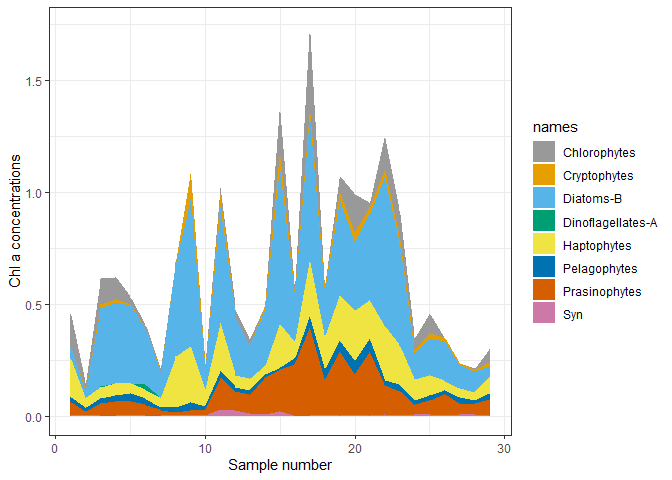
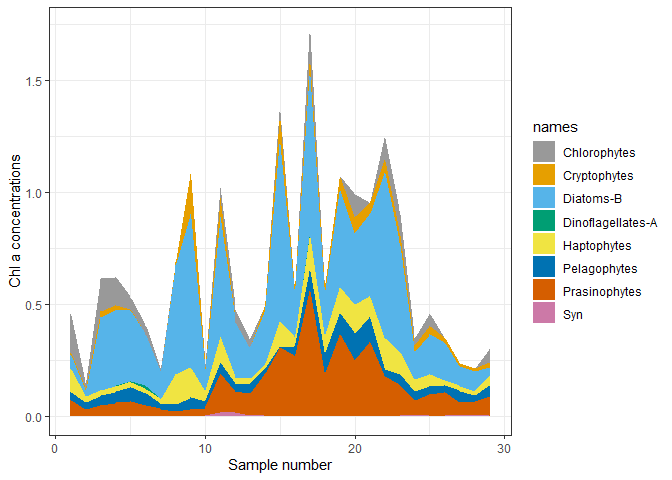
Set random number seed

diff --git a/README.md b/README.md
@@ -28,147 +28,149 @@ For the built-in samples matrix Sm of pigment samples:
 
 ``` r
 library(phytoclass)
+set.seed("84545")
+
 Results <- simulated_annealing(Sm, niter = 5)
 #> 
-#> Condition number = 382
-#> Current error:  0.0284
-#> Neighbour's error:  0.0284
+#> Condition number = 390
+#> Current error:  0.0283
+#> Neighbour's error:  0.0283
 #> Temperature (%):  99.1
 #> [1] " "
-#> Current error:  0.0243
-#> Neighbour's error:  0.0243
+#> Current error:  0.024
+#> Neighbour's error:  0.024
 #> Temperature (%):  98.21
 #> [1] " "
-#> Current error:  0.0243
+#> Current error:  0.024
 #> Neighbour's error:  0.0248
 #> Temperature (%):  97.32
 #> [1] " "
-#> Current error:  0.0243
-#> Neighbour's error:  0.0263
+#> Current error:  0.024
+#> Neighbour's error:  0.0266
 #> Temperature (%):  96.45
 #> [1] " "
-#> Current error:  0.0242
-#> Neighbour's error:  0.0242
+#> Current error:  0.024
+#> Neighbour's error:  0.0257
 #> Temperature (%):  95.58
 #> [1] " "
 
 Results$RMSE
-#> [1] 0.02415171
+#> [1] 0.02402553
 Results$MAE
 #>          Per       X19but         Fuco         Neox          Pra         Viol 
-#> 4.796815e-03 3.561784e-05 5.095640e-04 1.219304e-02 2.404575e-03 2.268146e-02 
+#> 3.471209e-03 1.423318e-05 5.395220e-04 8.540243e-03 6.235006e-03 2.153819e-02 
 #>       X19hex         Allo          Zea        Chl.b        Tchla 
-#> 1.880305e-04 4.545206e-04 2.643913e-03 2.896100e-03 3.534449e-03
+#> 9.868784e-05 6.901592e-04 1.529518e-02 3.024765e-03 3.555499e-03
 Results$Error
 #>                 Per        X19but          Fuco          Neox           Pra
-#> 1257  -1.544651e-04  3.927510e-05 -4.356794e-03 -1.169614e-03 -1.328980e-03
-#> 1278  -5.093960e-04  1.295216e-04 -1.436786e-02 -7.149551e-04  5.584500e-04
-#> 1908  -4.659203e-04  1.184673e-04 -1.314160e-02  2.290448e-03 -1.268125e-03
-#> 1909  -4.251160e-04  1.080922e-04 -1.199069e-02  2.352000e-03 -1.360577e-03
-#> 1914  -1.585610e-04  4.031652e-05 -4.472319e-03  5.504866e-03 -2.203286e-03
-#> 1915  -1.047737e-04  2.664031e-05 -2.955214e-03  5.319587e-03 -2.185928e-03
-#> 5614   0.000000e+00 -4.662745e-05  5.172392e-03  3.245674e-03 -1.515023e-03
-#> 5647   0.000000e+00 -3.270481e-05  3.627950e-03  1.820278e-03  1.354459e-03
-#> 5653  -2.201589e-06  5.597872e-07 -6.209731e-05  1.592803e-03  5.197193e-04
-#> 6770   0.000000e+00 -5.418843e-05  6.011133e-03  3.025347e-03 -1.937302e-03
-#> 8425   0.000000e+00 -1.326221e-05  1.471179e-03  2.797530e-03 -3.155545e-03
-#> 8426   0.000000e+00 -1.706336e-05  1.892841e-03  1.084810e-02 -4.659372e-03
-#> 9538   0.000000e+00 -1.065116e-05  1.181535e-03  7.931998e-03 -5.376226e-03
-#> 9568   0.000000e+00 -2.069669e-05  2.295888e-03  7.325765e-03 -1.355311e-03
-#> 9625  -4.196490e-05  1.067021e-05 -1.183649e-03  9.036506e-03  3.008990e-04
-#> 9626   0.000000e+00 -6.727990e-06  7.463372e-04  5.508687e-03  6.266014e-04
-#> 9838   0.000000e+00 -1.270642e-05  1.409526e-03  2.100617e-03  2.815752e-05
-#> 9839   0.000000e+00 -1.689287e-05  1.873929e-03  3.038011e-03  5.714056e-04
-#> 9845   0.000000e+00 -6.567531e-06  7.285375e-04  2.295987e-03 -1.344619e-03
-#> 9860   0.000000e+00 -2.822735e-05  3.131265e-03 -5.352300e-04 -2.114022e-03
-#> 9861  -8.217625e-06  2.089455e-06 -2.317837e-04  2.614351e-04 -9.337996e-04
-#> 9904   0.000000e+00 -3.847423e-06  4.267953e-04 -6.503266e-05 -1.289971e-03
-#> 9913  -1.354328e-05  3.443584e-06 -3.819975e-04  2.642207e-03 -1.477812e-03
-#> 9938   0.000000e+00 -5.963878e-05  6.615742e-03  1.199030e-02 -1.616208e-03
-#> 9980   0.000000e+00 -3.717234e-05  4.123535e-03  3.135975e-03 -2.166576e-03
-#> 10081 -4.682088e-06  1.190492e-06 -1.320615e-04  2.810656e-03  1.788723e-03
-#> 10082  0.000000e+00 -7.724729e-06  8.569057e-04  7.068776e-03 -2.835698e-04
-#> 10089  0.000000e+00 -1.839660e-05  2.040738e-03  5.480830e-03  1.637031e-04
-#> 10121  0.000000e+00 -4.528583e-05  5.023566e-03  6.829974e-03 -4.741634e-03
-#>                Viol        X19hex          Allo           Zea         Chl.b
-#> 1257  -7.761415e-03 -3.596882e-04 -1.442094e-04 -6.208890e-03  0.0148542626
-#> 1278  -4.371178e-03 -1.186182e-03 -4.755747e-04 -2.857442e-04  0.0010025729
-#> 1908  -9.044466e-03 -1.084944e-03 -4.349856e-04 -8.429706e-04  0.0083271810
-#> 1909  -8.922394e-03 -9.899271e-04 -3.968905e-04 -1.125358e-03  0.0087870322
-#> 1914  -7.547257e-03 -3.692258e-04 -1.480333e-04 -8.894432e-05  0.0079543811
-#> 1915  -7.186106e-03 -2.439766e-04 -9.781730e-05 -1.110613e-03  0.0086787336
-#> 5614  -2.965184e-03  4.270224e-04  1.712057e-04 -3.911996e-03  0.0078712741
-#> 5647  -1.262510e-03  2.995163e-04  1.200848e-04  7.215173e-05 -0.0029476004
-#> 5653   8.389838e-04 -5.126630e-06 -2.055415e-06 -1.234975e-06 -0.0031239588
-#> 6770  -2.871713e-03  4.962672e-04  1.989679e-04  1.195478e-04  0.0062210060
-#> 8425  -8.532944e-03  1.214576e-04  4.869589e-05  2.925843e-05  0.0138589004
-#> 8426  -1.141610e-02  1.562692e-04  0.000000e+00  3.764433e-05  0.0148600425
-#> 9538  -1.447409e-02  9.754518e-05  0.000000e+00  2.349806e-05  0.0212476942
-#> 9568  -5.918786e-03  1.895439e-04  7.599367e-05  4.566002e-05  0.0041089159
-#> 9625   2.180921e-03 -9.771967e-05 -3.917865e-05 -2.354009e-05 -0.0089300771
-#> 9626   1.994700e-03  6.161611e-05  2.470369e-05 -4.805040e-03 -0.0034783273
-#> 9838   1.964039e-04  1.163677e-04  4.665517e-05 -3.227614e-03  0.0008813737
-#> 9839  -4.439041e-03  1.547079e-04  6.202688e-05  3.726822e-05  0.0007955338
-#> 9845  -3.882632e-03  6.014660e-05  2.411452e-05 -1.844245e-03  0.0067364616
-#> 9860  -5.294443e-03  2.585110e-04  1.036446e-04  6.227379e-05  0.0108204387
-#> 9861  -3.413017e-03 -1.913560e-05 -7.672016e-06 -1.863678e-03  0.0065201627
-#> 9904  -3.794224e-03  3.523537e-05  1.412688e-05  8.487994e-06  0.0067258133
-#> 9913  -4.181826e-03 -3.153695e-05 -1.264408e-05 -7.597066e-06  0.0056146188
-#> 9938   9.745775e-05  5.461824e-04  2.189804e-04  1.315721e-04 -0.0031691430
-#> 9980  -4.335085e-03  3.404309e-04  1.364886e-04  8.200779e-05  0.0077683942
-#> 10081 -3.703905e-03 -1.090273e-05 -4.371221e-06 -2.626404e-06 -0.0030250127
-#> 10082 -7.863930e-04  7.074442e-05  2.836349e-05  1.704192e-05 -0.0032028399
-#> 10089  2.406832e-03  1.684793e-04  6.754823e-05  4.058567e-05 -0.0059569981
-#> 10121 -1.114982e-02  4.147356e-04  1.662795e-04  9.990737e-05  0.0179567649
-#>               Tchla
-#> 1257   0.0668540560
-#> 1278   0.2204716838
-#> 1908   0.2016549764
-#> 1909   0.1839944641
-#> 1914   0.0686267687
-#> 1915   0.0453471235
-#> 5614  -0.0793692317
-#> 5647  -0.0556701098
-#> 5653   0.0009528696
-#> 6770  -0.0922395325
-#> 8425  -0.0225749256
-#> 8426  -0.0290452378
-#> 9538  -0.0181303985
-#> 9568  -0.0352299042
-#> 9625   0.0181628301
-#> 9626  -0.0114523824
-#> 9838  -0.0216288705
-#> 9839  -0.0287550404
-#> 9845  -0.0111792493
-#> 9860  -0.0480485854
-#> 9861   0.0035566701
-#> 9904  -0.0065490817
-#> 9913   0.0058616680
-#> 9938  -0.1015171178
-#> 9980  -0.0632747532
-#> 10081  0.0020264543
-#> 10082 -0.0131490313
-#> 10089 -0.0313146826
-#> 10121 -0.0770855296
+#> 1257  -2.016832e-04  2.555861e-05 -0.0089617928 -0.0088573156  0.0057854981
+#> 1278  -4.000933e-04  5.070243e-05 -0.0177781490 -0.0050287416  0.0029692048
+#> 1908  -2.629452e-04  3.332212e-05 -0.0116839694 -0.0022869672  0.0036127567
+#> 1909  -2.343801e-04  2.970217e-05 -0.0104146790 -0.0020856447  0.0039330735
+#> 1914  -5.734420e-05  7.267031e-06 -0.0025480900  0.0014803626  0.0022605199
+#> 1915  -2.691132e-05  3.410378e-06 -0.0011958046  0.0015754724  0.0036692934
+#> 5614   0.000000e+00 -1.441622e-05  0.0050548609 -0.0003748107  0.0039785042
+#> 5647   0.000000e+00 -1.907135e-06  0.0006687121  0.0012341398  0.0020925046
+#> 5653   0.000000e+00 -4.937718e-07  0.0001731347  0.0010131425  0.0011489899
+#> 6770   0.000000e+00 -1.031987e-05  0.0036185272 -0.0009429398  0.0024941454
+#> 8425   0.000000e+00 -4.826104e-06  0.0016922106 -0.0015747921  0.0009532809
+#> 8426   0.000000e+00 -1.185224e-05  0.0041558352  0.0042948847  0.0015547195
+#> 9538   0.000000e+00 -7.970628e-06  0.0027947972  0.0002394925  0.0018553239
+#> 9568   0.000000e+00 -1.451985e-05  0.0050911975 -0.0001082795  0.0095320268
+#> 9625  -8.283923e-05 -6.988029e-05 -0.0036809615  0.0042735702  0.0004537920
+#> 9626   0.000000e+00 -5.766038e-06  0.0020217863 -0.0024167071  0.0143167572
+#> 9838  -3.677364e-05  4.660196e-06 -0.0016340370 -0.0044467202  0.0057361770
+#> 9839   0.000000e+00 -6.087732e-06  0.0021345842 -0.0027920763  0.0098255906
+#> 9845  -3.619323e-06  4.586642e-07 -0.0001608246 -0.0033778541  0.0067249902
+#> 9860   0.000000e+00 -3.437891e-06  0.0012054518 -0.0065380900  0.0035195542
+#> 9861   0.000000e+00 -1.350248e-06  0.0004734470 -0.0055708210  0.0092787207
+#> 9904  -2.734102e-05  3.464832e-06 -0.0012148983 -0.0039355274  0.0015618060
+#> 9913  -3.292737e-05  4.172771e-06 -0.0014631278 -0.0017724637  0.0021516319
+#> 9938   0.000000e+00 -1.236979e-05  0.0043373057  0.0063476391 -0.0001607775
+#> 9980   0.000000e+00 -6.567464e-06  0.0023027958 -0.0029623708  0.0008925982
+#> 10081  0.000000e+00 -5.246794e-06  0.0018397200 -0.0029268007  0.0102797984
+#> 10082  0.000000e+00 -6.889093e-06  0.0024155710  0.0020369517  0.0047177666
+#> 10089  0.000000e+00 -7.131170e-06  0.0025004522 -0.0003558590  0.0054162953
+#> 10121  0.000000e+00 -1.334807e-05  0.0046803262 -0.0023168271  0.0041727702
+#>                Viol        X19hex          Allo           Zea        Chl.b
+#> 1257  -0.0024269941 -3.711938e-04 -4.409828e-04 -1.120497e-02  0.015353185
+#> 1278  -0.0021616075 -7.363636e-04 -8.748092e-04 -2.370467e-03  0.002087823
+#> 1908  -0.0067722402 -4.839452e-04 -5.749329e-04 -3.373919e-03  0.005189338
+#> 1909  -0.0071833294 -4.313717e-04 -5.124750e-04 -4.215064e-03  0.006222377
+#> 1914  -0.0075942703 -1.055408e-04 -1.253838e-04 -1.743049e-03  0.003904737
+#> 1915  -0.0072936003 -4.952973e-05 -5.884194e-05 -5.185266e-03  0.006005577
+#> 5614  -0.0026324549  2.093703e-04  2.487345e-04 -9.104614e-03  0.009501780
+#> 5647  -0.0014681990  2.769778e-05  3.290531e-05 -3.594214e-04 -0.003185980
+#> 5653   0.0006155274  7.171168e-06  8.519438e-06 -2.165362e-04 -0.003564019
+#> 6770  -0.0024095732  1.498779e-04  1.780568e-04 -5.719746e-03  0.007581382
+#> 8425  -0.0093803479  7.009066e-05  8.326859e-05  2.827730e-05  0.009681932
+#> 8426  -0.0123283981  1.721330e-04  0.000000e+00  6.944515e-05  0.005687787
+#> 9538  -0.0158033847  1.157593e-04  0.000000e+00  4.670183e-05  0.012753453
+#> 9568  -0.0082235070  2.108753e-04  2.505225e-04 -9.037484e-03  0.004185448
+#> 9625   0.0033144315 -9.905241e-05 -1.811290e-04 -2.966061e-04 -0.009022583
+#> 9626   0.0006596631  8.374155e-05  9.948601e-05 -1.996796e-02  0.003618368
+#> 9838   0.0031349282 -6.768114e-05 -8.040604e-05 -1.372653e-02  0.010039291
+#> 9839  -0.0061039172  8.841360e-05  1.050365e-04 -8.019459e-03  0.002309205
+#> 9845  -0.0039680721 -6.661290e-06 -7.913696e-06 -1.273194e-02  0.013087472
+#> 9860  -0.0031299818  4.992932e-05  5.931665e-05 -8.148555e-03  0.015364147
+#> 9861  -0.0044837767  1.960998e-05  2.329690e-05 -1.301483e-02  0.011566731
+#> 9904  -0.0023630976 -5.032059e-05 -5.978149e-05 -3.089930e-03  0.007837740
+#> 9913  -0.0027060704 -6.060215e-05 -7.199611e-05 -3.810046e-03  0.005754947
+#> 9938   0.0012556180  1.796494e-04  2.134258e-04  7.247757e-05 -0.007040581
+#> 9980  -0.0022312429  9.538085e-05  1.133136e-04 -2.360653e-03  0.007530935
+#> 10081 -0.0054650329  7.620044e-05  9.052708e-05 -5.481875e-03 -0.002786379
+#> 10082 -0.0028179810  1.000520e-04  1.188630e-04  4.036486e-05 -0.007959213
+#> 10089  0.0005513200  1.035677e-04  1.230397e-04  4.178324e-05 -0.010184592
+#> 10121 -0.0091840014  1.938572e-04  2.303048e-04 -7.841625e-03  0.015989165
+#>              Tchla
+#> 1257   0.130654395
+#> 1278   0.259188462
+#> 1908   0.170341134
+#> 1909   0.151836089
+#> 1914   0.037148723
+#> 1915   0.017433690
+#> 5614  -0.073695053
+#> 5647  -0.009749185
+#> 5653  -0.002524139
+#> 6770  -0.052754676
+#> 8425  -0.024670817
+#> 8426  -0.060588115
+#> 9538  -0.040745478
+#> 9568  -0.074224805
+#> 9625   0.053664909
+#> 9626  -0.029475716
+#> 9838   0.023822701
+#> 9839  -0.031120203
+#> 9845   0.002344670
+#> 9860  -0.017574337
+#> 9861  -0.006902406
+#> 9904   0.017712059
+#> 9913   0.021331008
+#> 9938  -0.063233782
+#> 9980  -0.033572568
+#> 10081 -0.026821364
+#> 10082 -0.035216723
+#> 10089 -0.036454209
+#> 10121 -0.068234694
 Results$`F matrix`
-#>                      Per X19but   Fuco   Neox    Pra       Viol X19hex   Allo
-#> Prasinophytes     0.0000 0.0000 0.0000 0.0739 0.2746 0.09915809 0.0000 0.0000
-#> Chlorophytes      0.0000 0.0000 0.0000 0.0180 0.0000 0.06000000 0.0000 0.0000
-#> Cryptophytes      0.0000 0.0000 0.0000 0.0000 0.0000 0.00000000 0.0000 0.5151
-#> Diatoms-B         0.0000 0.0000 0.8677 0.0000 0.0000 0.00000000 0.0000 0.0000
-#> Dinoflagellates-A 0.4809 0.0000 0.0000 0.0000 0.0000 0.00000000 0.0000 0.0000
-#> Haptophytes       0.0000 0.1062 0.0479 0.0000 0.0000 0.00000000 0.5266 0.0000
-#> Pelagophytes      0.0000 0.7326 1.2038 0.0000 0.0000 0.00000000 0.0000 0.0000
-#> Syn               0.0000 0.0000 0.0000 0.0000 0.0000 0.00000000 0.0000 0.0000
+#>                      Per X19but   Fuco   Neox    Pra   Viol X19hex   Allo
+#> Prasinophytes     0.0000 0.0000 0.0000 0.0960 0.1734 0.0923 0.0000 0.0000
+#> Chlorophytes      0.0000 0.0000 0.0000 0.0502 0.0000 0.0311 0.0000 0.0000
+#> Cryptophytes      0.0000 0.0000 0.0000 0.0000 0.0000 0.0000 0.0000 0.3292
+#> Diatoms-B         0.0000 0.0000 0.8244 0.0000 0.0000 0.0000 0.0000 0.0000
+#> Dinoflagellates-A 0.7198 0.0000 0.0000 0.0000 0.0000 0.0000 0.0000 0.0000
+#> Haptophytes       0.0000 0.2513 0.0637 0.0000 0.0000 0.0000 0.9634 0.0000
+#> Pelagophytes      0.0000 0.3376 0.8734 0.0000 0.0000 0.0000 0.0000 0.0000
+#> Syn               0.0000 0.0000 0.0000 0.0000 0.0000 0.0000 0.0000 0.0000
 #>                      Zea  Chl.b Tchla
-#> Prasinophytes     0.0792 0.7766     1
-#> Chlorophytes      0.0175 0.2470     1
+#> Prasinophytes     0.1305 0.6366     1
+#> Chlorophytes      0.0228 0.2891     1
 #> Cryptophytes      0.0000 0.0000     1
 #> Diatoms-B         0.0000 0.0000     1
 #> Dinoflagellates-A 0.0000 0.0000     1
 #> Haptophytes       0.0000 0.0000     1
 #> Pelagophytes      0.0000 0.0000     1
-#> Syn               0.8573 0.0000     1
+#> Syn               0.9694 0.0000     1
 Results$`Class abudances`
 #> NULL
 Results$Figure
